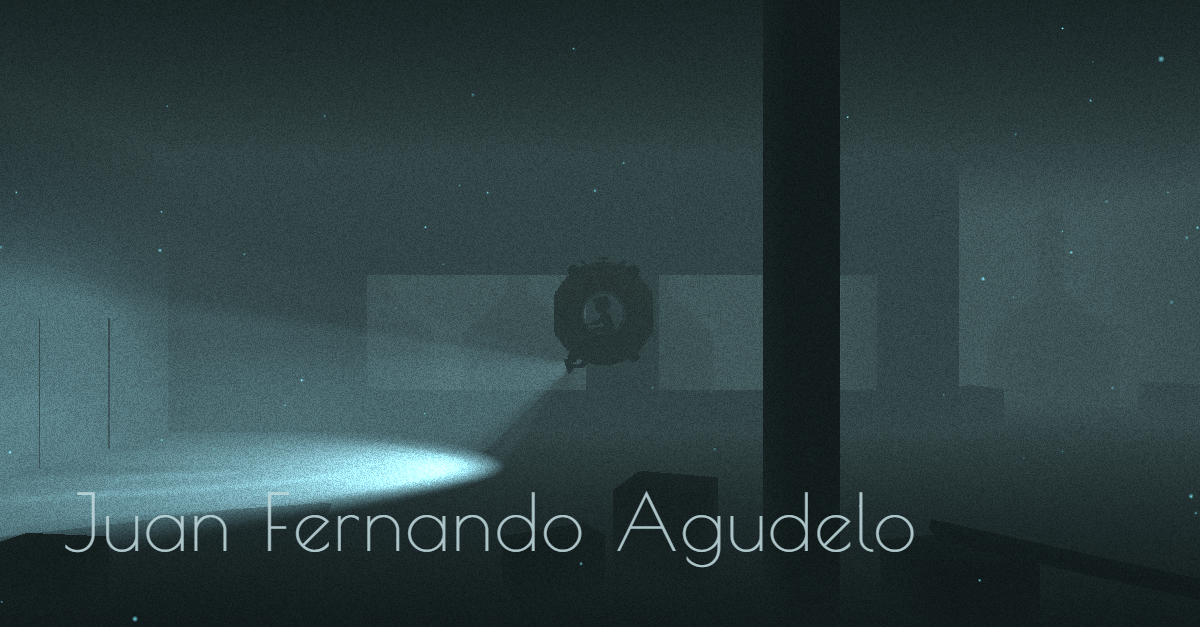
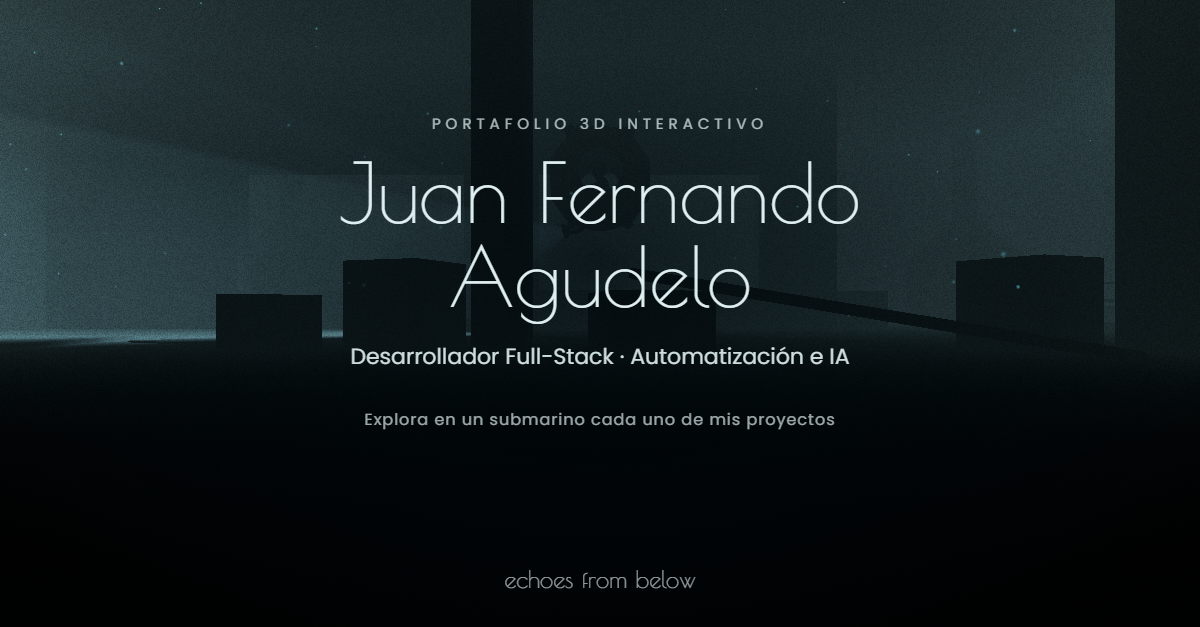
feat: meta titulo, descripcion e imagen para compartir en LinkedIn
Imagen 1200x627 con el texto centrado para que LinkedIn no lo recorte en movil, y URL absoluta de la imagen con el dominio de Vercel.

diff --git a/src/index.html b/src/index.html
@@ -13,23 +13,26 @@
       href="https://fonts.googleapis.com/css2?family=Poiret+One&family=Poppins&display=swap"
       rel="stylesheet"
     />
-    <title>Juan Fernando Agudelo - Full-Stack Developer</title>
+    <title>Juan Fernando Agudelo · Portafolio 3D interactivo bajo el agua</title>
     <meta
       name="description"
-      content="Portafolio de Juan Fernando Agudelo, desarrollador full-stack en Medellín. Explora las profundidades y descubre sus proyectos."
+      content="Explora en un submarino los proyectos de Juan Fernando Agudelo, desarrollador full-stack en Medellín. Muévete con el mouse, rompe el piso y descubre cada uno."
     />
-    <meta property="og:title" content="Juan Fernando Agudelo - Full-Stack Developer" />
+    <meta property="og:title" content="Juan Fernando Agudelo · Portafolio 3D interactivo bajo el agua" />
     <meta
       property="og:image"
-      content="/images/social.png"
+      content="https://proyectos-personales-nu.vercel.app/images/social.png?v=2"
     />
     <meta
       property="og:description"
-      content="Portafolio de Juan Fernando Agudelo, desarrollador full-stack en Medellín. Explora las profundidades y descubre sus proyectos."
+      content="Explora en un submarino los proyectos de Juan Fernando Agudelo, desarrollador full-stack en Medellín. Muévete con el mouse, rompe el piso y descubre cada uno."
     />
     <meta property="og:image:width" content="1200" />
     <meta property="og:image:height" content="627" />
     <meta property="og:type" content="website" />
+    <meta property="og:url" content="https://proyectos-personales-nu.vercel.app/" />
+    <meta property="og:image:alt" content="Juan Fernando Agudelo, portafolio 3D interactivo: un submarino con linterna explora una estructura hundida" />
+    <meta name="twitter:card" content="summary_large_image" />
   </head>
   <body style="--progress: 0">
     <button id="audio" style="opacity: 0">
